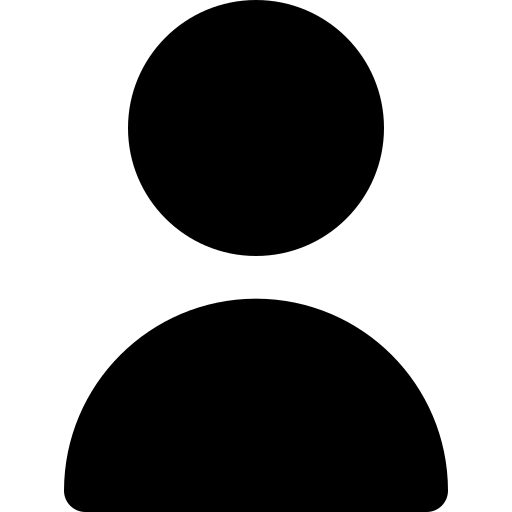
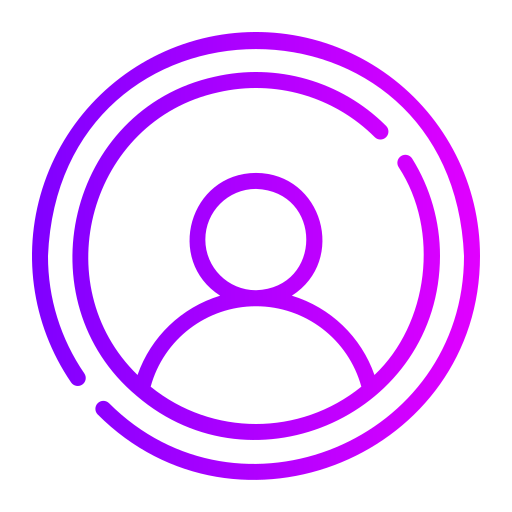
Changes in the UI of HomePage

diff --git a/src/main/resources/ca/ucalgary/groupprojectgui/p3/styles/Home.css b/src/main/resources/ca/ucalgary/groupprojectgui/p3/styles/Home.css
@@ -17,9 +17,12 @@
 
 
   .section-title {
-     -fx-text-fill: #ffffff;
-     -fx-font-size: 24px;
-      -fx-background-color:linear-gradient(to bottom, #2a004f, #5900a6); ;
+     -fx-font-family: 'Orbitron', sans-serif;
+     -fx-font-size: 40px;
+     -fx-font-weight: 900;
+     -fx-text-fill: #fff;
+     -fx-effect: dropshadow(gaussian, #ff00ff, 10, 0.5, 0, 0);
+     -fx-padding: 0 0 20 0;
      -fx-font-weight: bold;
      -fx-effect: dropshadow(gaussian, #ff66ff, 8, 0.4, 0, 1);
   }
@@ -52,7 +55,7 @@
      -fx-background-color: linear-gradient(to right, #8e2de2, #4a00e0);
      -fx-text-fill: white;
      -fx-font-weight: bold;
-     -fx-background-radius: 12;
+     -fx-background-radius: 20;
      -fx-cursor: hand;
      -fx-effect: dropshadow(gaussian, #8e2de2, 6, 0.4, 0, 0);
   }
@@ -221,12 +224,6 @@
      -fx-scale-y: 1.05;
      -fx-opacity: 0.9;
   }
-  .game-title {
-     -fx-text-fill: #ff66ff;
-     -fx-font-size: 18px;
-     -fx-font-weight: bold;
-     -fx-effect: dropshadow(gaussian, #ff00ff, 8, 0.6, 0, 1);
-  }
   /* -------------------------
     Game Selection Cards
   -------------------------- */
@@ -247,10 +244,11 @@
 
 
   .game-title {
-     -fx-text-fill: #ff66ff;
+     -fx-text-fill: #fff;
+     -fx-effect: dropshadow(gaussian, #ff00ff, 10, 0.5, 0, 0);
      -fx-font-size: 20px;
      -fx-font-weight: bold;
-     -fx-effect: dropshadow(gaussian, #ff00ff, 6, 0.4, 0, 0);
+
   }
 
 

diff --git a/src/main/java/ca/ucalgary/groupprojectgui/p3/controllers/HomePageController.java b/src/main/java/ca/ucalgary/groupprojectgui/p3/controllers/HomePageController.java
@@ -37,10 +37,11 @@ public class HomePageController {
     @FXML private StackPane popupContainer;
     @FXML private VBox rightPanel;
 
+    @FXML
+    private ImageView profileIcon;
     @FXML private ImageView heartIcon;
     @FXML private ImageView bellIcon;
     @FXML private ImageView friendsIcon;
-    @FXML private ImageView profileIcon;
 
     @FXML private Label welcomeLabel;
     @FXML private ListView<String> recentScores;
@@ -89,13 +90,11 @@ public class HomePageController {
             System.err.println("⚠ Logo image not found.");
         }
 
-        loadIcon(heartIcon, "/ca/ucalgary/groupprojectgui/p3/images/heart.png");
-        loadIcon(bellIcon, "/ca/ucalgary/groupprojectgui/p3/images/bell.png");
         loadIcon(profileIcon, "/ca/ucalgary/groupprojectgui/p3/images/profile.png");
 
         // Set up event handler for the profile icon to open Manage Profile page on click
         profileIcon.setOnMouseClicked((MouseEvent event) -> {
-            openManageProfile(event);
+            SceneManager.switchTo("/ca/ucalgary/groupprojectgui/p3/ManageProfile.fxml", "Manage Profile", "ManageProfile.css");
         });
 
         // Initialize friend requests functionality if the FXML components exist on the Home page
